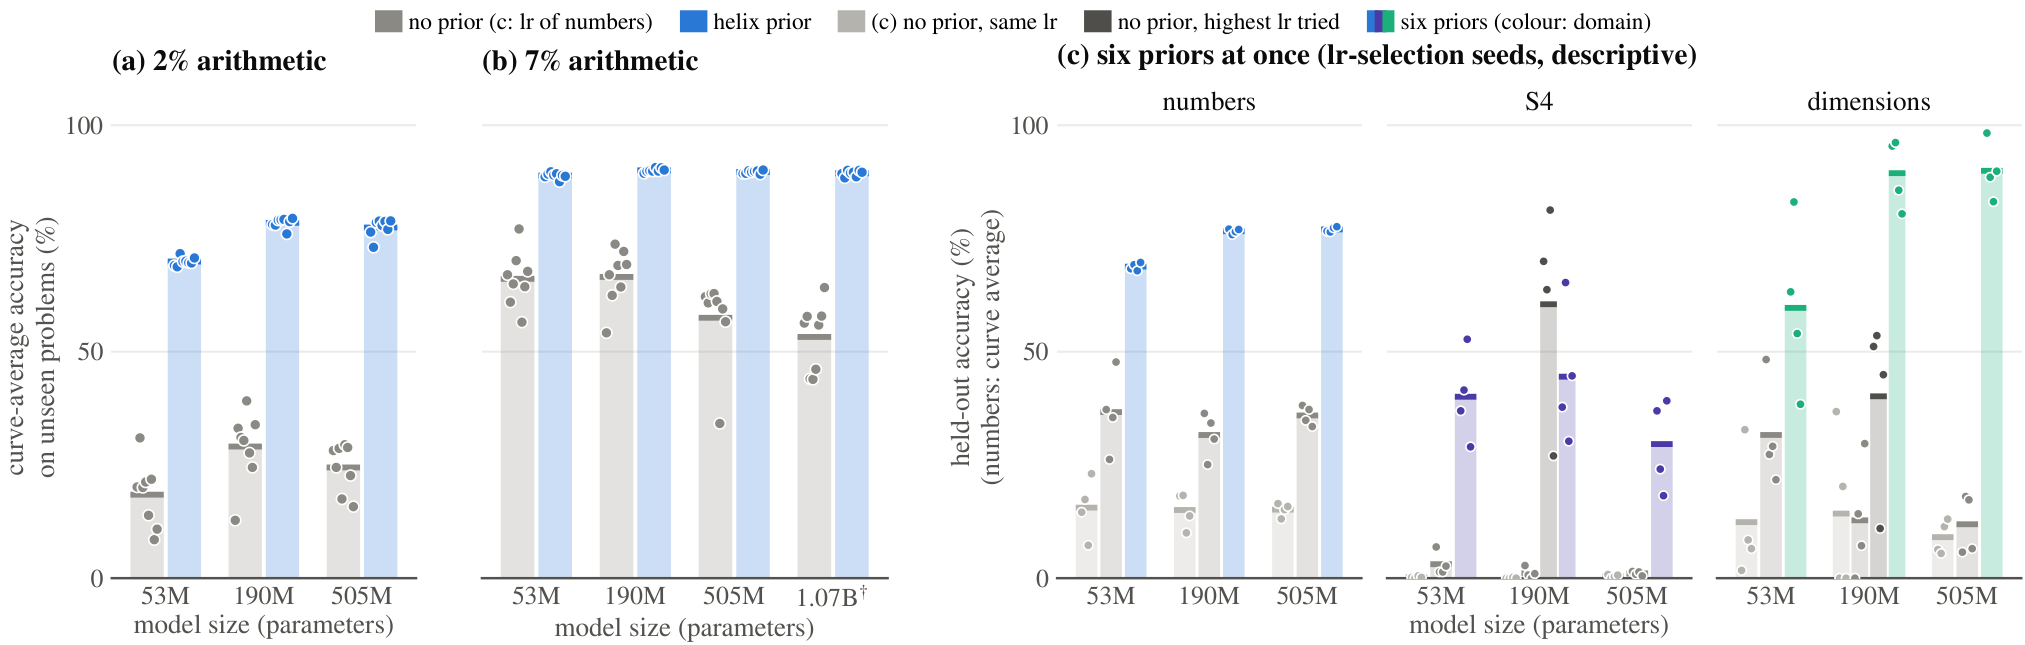
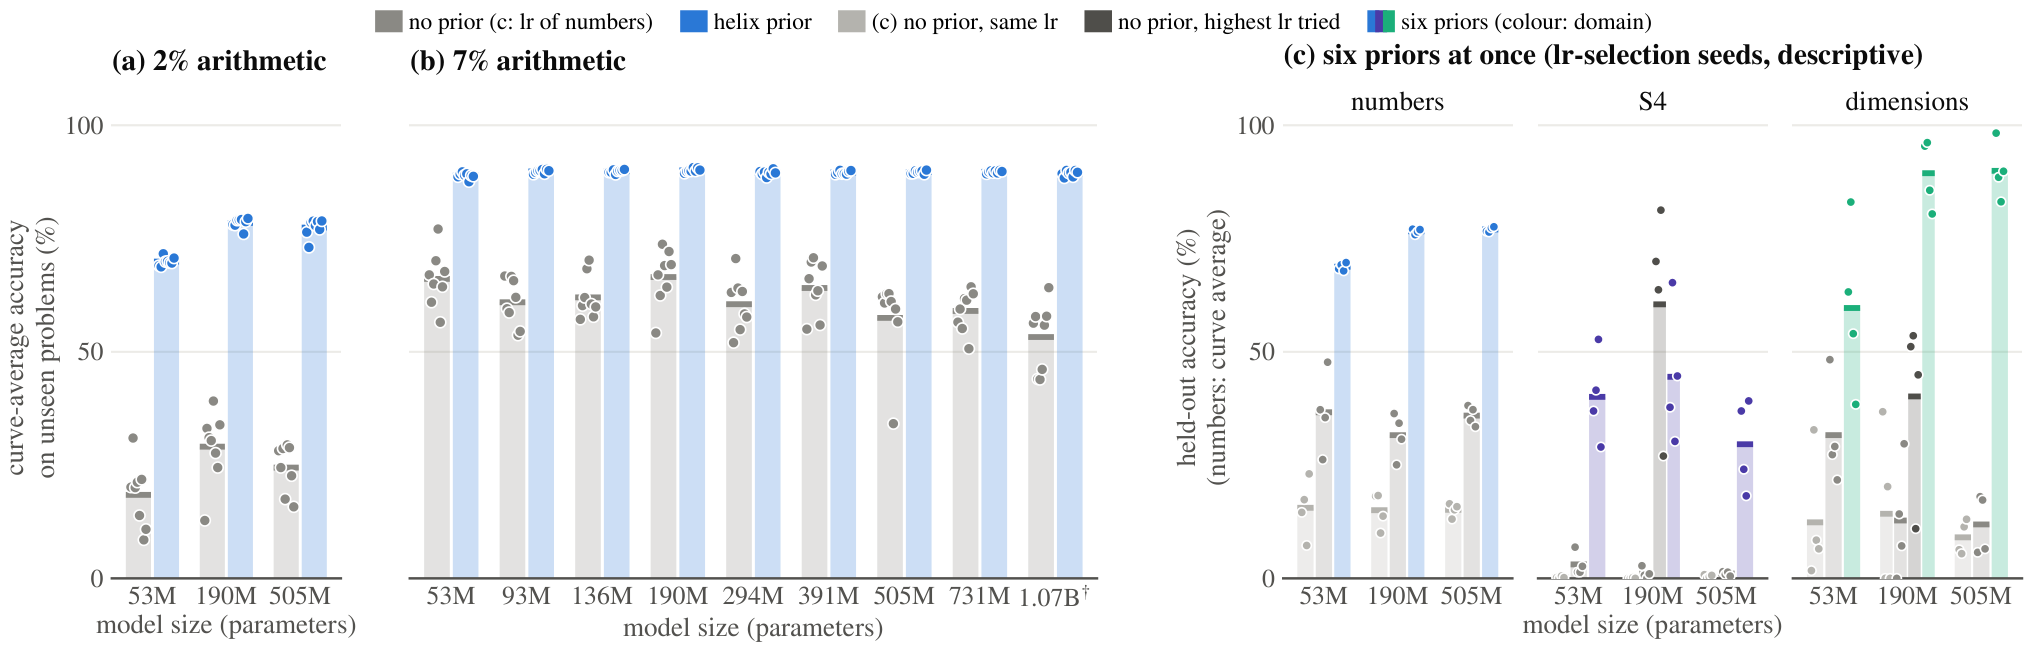
Size section: nine sizes at 300M tokens (F111); paper Figures 2 and 3 redrawn; F111 row; matches Overleaf 444ac79

diff --git a/index.html b/index.html
@@ -517,12 +517,12 @@ table.dom td.n{font-family:var(--font-body);font-size:.86rem;font-variant-numeri
   <div class="sec-head">
     <p class="eyebrow" hidden>Model size</p>
     <h2>The prior helps at every model size we pretrained, from 53M to 1.07B parameters</h2>
-    <p class="take">With each model at its own best learning rate, the prior keeps its advantage at every size we tested. At 1.07B it raises the average accuracy over training from 53% to 89%, by <b>36.1 points</b> (8 of 8 seeds). How the gain changes with size depends on what is held fixed: <b>with the same amount of training data, larger models gain more</b>; when larger models also get proportionally more data, there is no consistent trend.</p>
+    <p class="take">With each model at its own best learning rate, the prior keeps its advantage at every size we tested. At 1.07B it raises the average accuracy over training from 53% to 89%, by <b>36.1 points</b> (8 of 8 seeds). How the gain changes with size depends on what is held fixed: <b>with the same amount of training data, the gain increases with model size</b> (nine sizes); when larger models also get proportionally more data, there is no consistent trend.</p>
   </div>
   <figure data-group="g-size" style="margin-bottom:18px">
-    <div class="fig-body"><div class="fig-title">Six sizes, one recipe: 300M tokens, 7% arithmetic</div><div class="fig-sub">each arm at its own learning rate · means over 8 seeds · the number is the gain</div>
+    <div class="fig-body"><div class="fig-title">Nine sizes, one recipe: 300M tokens, 7% arithmetic</div><div class="fig-sub">each arm at its own learning rate · means over 8 seeds · the number is the gain</div>
       <div class="chart" id="c-size"></div><div class="legend" id="l-size"></div></div>
-    <figcaption>With the number of tokens fixed, larger models gain more, though not monotonically: the model without a prior falls from 66% to 53%, while the prior stays near 90%.</figcaption>
+    <figcaption>With the number of tokens fixed, the gain increases with model size, though not monotonically: on the eight sizes run on L40S GPUs, a pre-registered test finds +1.66 points per e-fold of non-embedding parameters (two-sided p = 0.096). The increase comes from the model without a prior getting weaker, while the prior stays at 89–90%; along the ladder, tokens per parameter fall from 21 to 0.5. The three sizes never seen before the test do not show the increase on their own, so they say only that the new sizes did not fall below the earlier trend.</figcaption>
   </figure>
   <figure class="paper" hidden>
     <div class="plate"><img src="media/fig2_scaling.png" alt="Paper Figure 2: curve-average accuracy of every seed at several model sizes, without and with the prior, and six priors at once at 53M, 190M and 505M"></div>
@@ -531,7 +531,7 @@ table.dom td.n{font-family:var(--font-body);font-size:.86rem;font-variant-numeri
   </figure>
   <figure class="paper narrow" style="margin-top:18px">
     <div class="plate"><img src="media/fig3_size.png" alt="Paper Figure 3: gain of the helix prior against model size with 300M tokens, 0.745 tokens per parameter or 0.318 tokens per parameter (7% arithmetic), and with 2% arithmetic in its own panel, every seed shown as a dot"></div>
-    <figcaption><b>Paper Figure 3. How the gain changes with model size depends on what is held fixed.</b> Gain of the helix prior (mean of 8 paired seeds with 95% interval; dots: seeds). Bottom: with 2% arithmetic and 300M tokens on one cluster, the prior adds 48.0 to 53.0 points at each of five sizes from 53M to 505M (8 of 8 seeds at each size). A pre-registered test finds the gain rising with log size, by 1.27 points per e-fold of parameters; this is a partial confirmation, because three of the five sizes were seen before the test, and the rise above 190M comes from the model without the prior getting weaker.
+    <figcaption><b>Paper Figure 3. How the gain changes with model size depends on what is held fixed.</b> Gain of the helix prior (mean of 8 paired seeds with 95% interval; dots: seeds). Top: at 300M tokens, the solid line joins the eight sizes run on L40S GPUs and a dashed segment leads to 1.07B on B200 GPUs (sizes in millions of parameters). Bottom: with 2% arithmetic and 300M tokens on one cluster, the prior adds 48.0 to 53.0 points at each of five sizes from 53M to 505M (8 of 8 seeds at each size). A pre-registered test finds the gain rising with log size, by 1.27 points per e-fold of parameters; this is a partial confirmation, because three of the five sizes were seen before the test, and the rise above 190M comes from the model without the prior getting weaker.
       <span class="chips"><span class="chip">pre-registered</span></span></figcaption>
   </figure>
   <p class="tnote">The two results fit together because the gain varies mainly with the number of training tokens: within one size it first rises and then falls, peaking roughly between 70M and 130M tokens with 7% arithmetic, and with more tokens the model without a prior catches up.</p>
@@ -886,7 +886,8 @@ const CLAIMS = [
   { f: "F95", status: "holds", seeds: "5 (fresh)", claim: "In one toy cell (sums and differences of the vectors of {−2,…,2}³ from 6.7% of the table, one-layer network), a prior whose target encodes the whole table makes 5 of 5 seeds learn a task that no seed learned in any of the 28 settings we ran without a prior with four times the budget; the low weight decays were added after the pre-registered test, and the prior works only at learning rate 10⁻³. Given the structure, the model learns to use it." },
   { f: "F96", status: "holds", prereg: true, seeds: "4", claim: "On five zero-shot benchmarks after pretraining (505M with the window at two learning rates, 190M with the first set of six priors), against the model without a prior at the same learning rate, no comparison shows a decline that is both significant and larger than one point, and in 9 of 15 the 95% interval excludes a loss of more than one point (6 cannot tell); one small cost (LAMBADA at 505M, −0.63 [−0.92, −0.34]). We do not claim that general ability is unaffected." },
   { f: "F97", status: "holds", prereg: true, seeds: "8 per cell", claim: "How the gain changes with model size depends on what is held fixed. With the number of tokens fixed, larger models gain more (descriptive regression: +3.5 points per e-fold of non-embedding parameters, [2.5, 4.6]); no size effect is detected on the speed-up. With the ratio of tokens to non-embedding parameters fixed there is no consistent trend (at 0.745 the gain falls with size, where the number of tokens grows with size and the verdict depends on excluding the 93M cell; at 0.318 no trend). The gain varies strongly with the number of training tokens, although the design does not separate arithmetic tokens from total training, window timing or the prior's share of the gradient." },
-  { f: "F99", status: "holds", prereg: true, seeds: "8 per size", claim: "At a fixed 300M tokens with 7% arithmetic, over six sizes from 53M to 1.07B, the gain is larger at larger sizes (p = 0.038 from the spread of the six sizes; the slope is positive with means, medians and trimmed means). Four of the six sizes were seen before registration, the gain is not monotonic, two sizes ran on B200 (with L40S sizes alone the size-spread interval includes zero), and the rise comes from the model without a prior while the prior stays near 90%." },
+  { f: "F111", status: "holds", prereg: true, seeds: "8 per size", claim: "At a fixed 300M tokens with 7% arithmetic, the helix prior raises held-out accuracy averaged over training by 22.8 to 36.1 points at each of nine sizes from 53M to 1.07B (ten size-by-GPU cells, 8 of 8 seeds in each). On the eight L40S sizes the pre-registered test finds the gain increasing with size: +1.66 points per e-fold of non-embedding parameters (median-gain slope +0.96, trimmed +1.19; seed-bootstrap 90% CI [+0.71, +2.68], both halves positive; 90% residual interval [+0.03, +3.30], two-sided p = 0.096). The three sizes never seen before registration do not show it on their own (mean slope +0.93, median −0.48, trimmed +0.41; CI [−0.71, +2.68]), so this says only that the new sizes did not fall below the earlier trend. Along this ladder tokens per non-embedding parameter fall from 21 to 0.5, and the increase comes from the model without the prior getting weaker (−1.55 per e-fold; median −0.83, trimmed −1.11) while the prior arm stays at 89–90." },
+  { f: "F99", status: "holds", prereg: true, seeds: "8 per size", claim: "The earlier six-size test on mixed hardware, superseded as the headline by F111. At a fixed 300M tokens with 7% arithmetic, over six sizes from 53M to 1.07B, the gain is larger at larger sizes (six-size mixed-hardware fit: p = 0.038 from the spread of the six sizes; the slope is positive with means, medians and trimmed means). Four of the six sizes were seen before registration, the gain is not monotonic, two sizes ran on B200 (with L40S sizes alone the size-spread interval includes zero), and the rise comes from the model without a prior while the prior stays near 90%." },
   { f: "F74", status: "holds", seeds: "one model per checkpoint", claim: "Number geometry reaches half its final value in (9, 21]B tokens, few-shot addition in (84, 210]B; target coordinates are decodable in all eight final models for 27 of 34 domains." },
 ];
 // F81 screen (gains at 42B / 210B, robust marks, floor / ceiling bands) and F74 per-domain decodability (x / 8)
@@ -1157,8 +1158,8 @@ function sitesChart() {
   return { build, update };
 }
 
-/* ---------------------------------------------------------------- six sizes at 300M tokens: dumbbells (F87 8-seed means, F99 table) */
-const SIZES = [["53M", 66.1, 88.9, 22.8, ""], ["93M", 60.9, 89.8, 28.9, ""], ["190M", 66.5, 90.0, 23.5, ""], ["294M", 60.8, 89.9, 29.1, "†"], ["505M", 57.5, 89.7, 32.2, ""], ["1.07B", 53.3, 89.4, 36.1, "†"]];
+/* ---------------------------------------------------------------- nine sizes at 300M tokens: dumbbells (F111 table; 294M is the L40S cell, the B200 one is +29.1) */
+const SIZES = [["53M", 66.1, 88.9, 22.8, ""], ["93M", 60.9, 89.8, 28.9, ""], ["136M", 62.0, 89.9, 27.8, ""], ["190M", 66.5, 90.0, 23.5, ""], ["294M", 60.5, 89.5, 29.0, ""], ["391M", 64.1, 89.6, 25.5, ""], ["505M", 57.5, 89.7, 32.2, ""], ["731M", 59.0, 89.7, 30.7, ""], ["1.07B", 53.3, 89.4, 36.1, "†"]];
 function sizeChart() {
   const box = $("#c-size"), st = {};
   $("#l-size").replaceChildren(
@@ -1168,7 +1169,7 @@ function sizeChart() {
   function build() {
     box.replaceChildren();
     const W = Math.max(280, box.clientWidth || 600), narrow = W < 520, rh = 38, m = { l: narrow ? 56 : 70, r: narrow ? 50 : 64, t: 8, b: 34 }, H = m.t + SIZES.length * rh + m.b;
-    const s = svg("svg", { viewBox: `0 0 ${W} ${H}`, width: W, height: H, role: "img", "aria-label": "Curve-average accuracy without and with the helix prior at six model sizes, 300M tokens, 7% arithmetic" }, box);
+    const s = svg("svg", { viewBox: `0 0 ${W} ${H}`, width: W, height: H, role: "img", "aria-label": "Curve-average accuracy without and with the helix prior at nine model sizes, 300M tokens, 7% arithmetic" }, box);
     const x = lin(40, 100, m.l, W - m.r);
     for (const v of [40, 50, 60, 70, 80, 90, 100]) { svg("line", { x1: x(v), x2: x(v), y1: m.t, y2: H - m.b, stroke: css("--grid") }, s); if (v % 20 === 0) txt(s, x(v), H - m.b + 16, v + "%", null, "middle"); }
     txt(s, (m.l + W - m.r) / 2, H - 3, "curve-average held-out accuracy", null, "middle");
@@ -1332,7 +1333,7 @@ load().then(() => {
   let w = window.innerWidth; window.addEventListener("resize", () => { if (Math.abs(window.innerWidth - w) > 8) { w = window.innerWidth; rebuildAll(); } });
   matchMedia("(prefers-color-scheme: dark)").addEventListener?.("change", rebuildAll);
   new MutationObserver(rebuildAll).observe(document.documentElement, { attributes: true, attributeFilter: ["data-theme"] });
-  $("#built").textContent = "Page version 2026-11-22 · matches the paper draft v2 (Overleaf a634c20).";
+  $("#built").textContent = "Page version 2026-11-22 · matches the paper draft v2 (Overleaf 444ac79).";
 }).catch(err => { $("#load-error").hidden = false; console.error(err); });
 })();
 </script>
